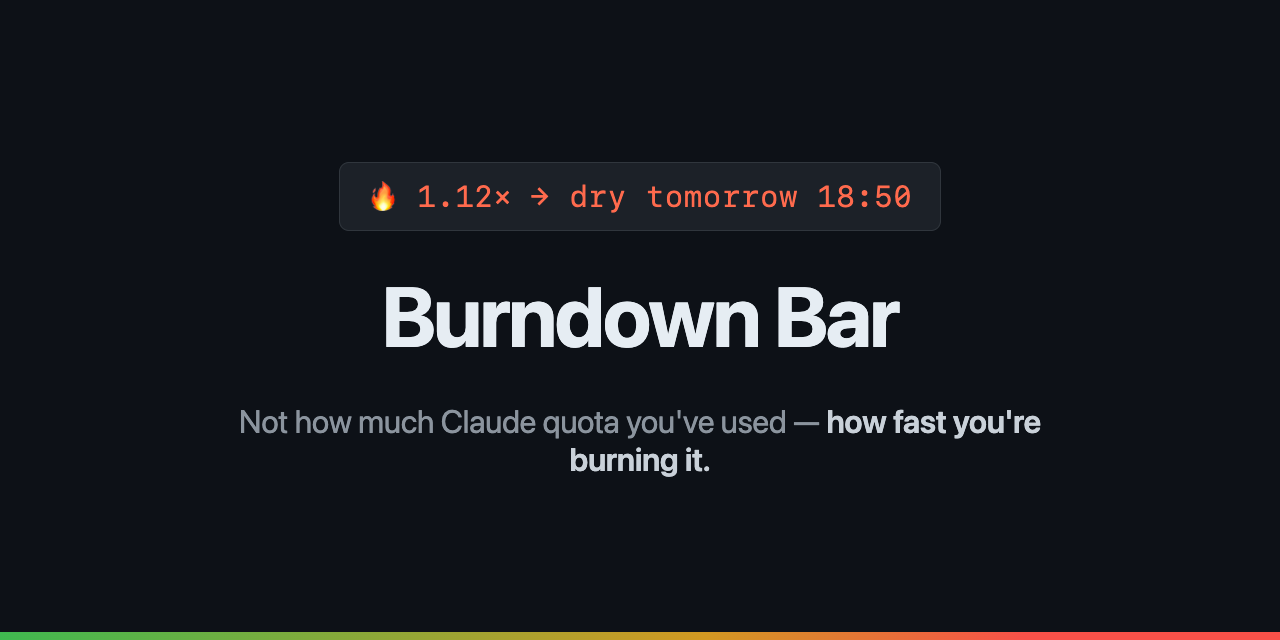
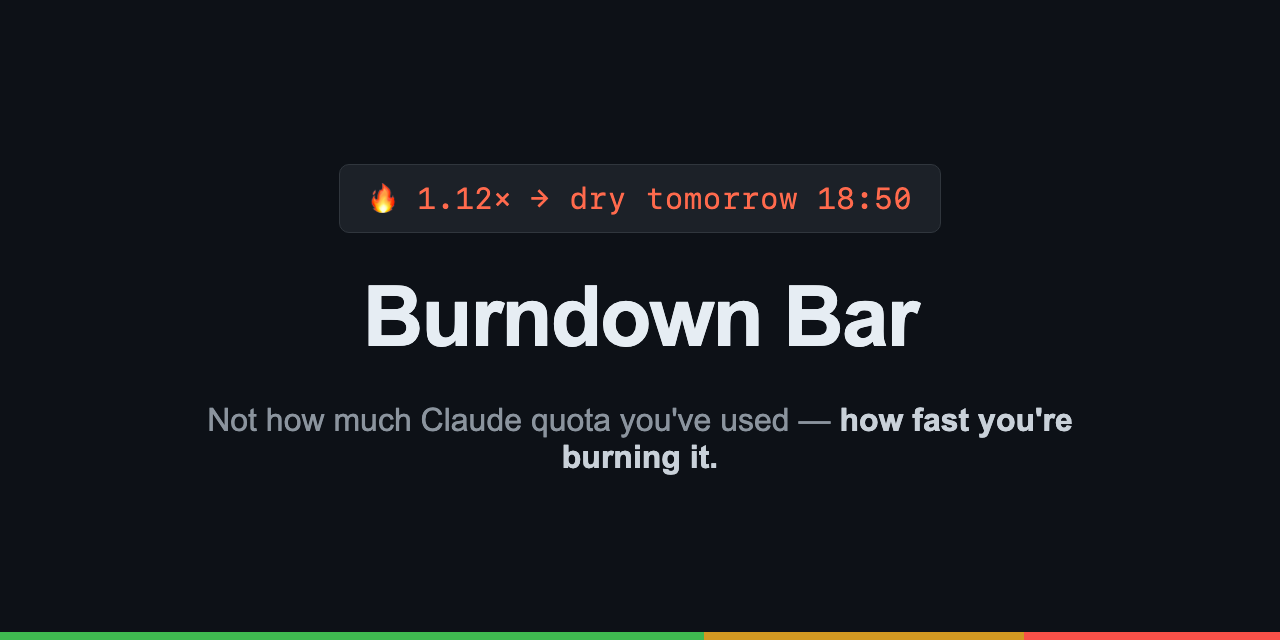
Strip gradient from social preview, switch to Arial
Replace the green→red gradient bar with three discrete solid burn-state
segments; use Arial for the text. Regenerate the 1280×640 PNG.

diff --git a/assets/social-preview.html b/assets/social-preview.html
@@ -7,7 +7,7 @@
   html, body { width: 1280px; height: 640px; }
   body {
     background: #0d1117;
-    font-family: -apple-system, "SF Pro Display", "Helvetica Neue", sans-serif;
+    font-family: Arial, Helvetica, sans-serif;
     display: flex; flex-direction: column;
     align-items: center; justify-content: center;
     gap: 36px;
@@ -26,16 +26,22 @@
   h1 { color: #e6edf3; font-size: 84px; font-weight: 700; letter-spacing: -2px; }
   p  { color: #8b949e; font-size: 32px; font-weight: 400; max-width: 900px; text-align: center; }
   p b { color: #c9d1d9; font-weight: 600; }
+  /* Discrete burn-state segments (sustainable / tight / over), solid colors —
+     no gradient. */
   .bar {
     position: absolute; bottom: 0; left: 0; right: 0; height: 8px;
-    background: linear-gradient(90deg, #3fb950 0%, #d29922 55%, #f85149 80%, #f85149 100%);
+    display: flex;
   }
+  .bar span { height: 100%; }
+  .bar .s-ok  { flex: 55; background: #3fb950; }
+  .bar .s-mid { flex: 25; background: #d29922; }
+  .bar .s-hot { flex: 20; background: #f85149; }
 </style>
 </head>
 <body>
   <div class="pill">🔥 <span class="hot">1.12× → dry tomorrow 18:50</span></div>
   <h1>Burndown Bar</h1>
   <p>Not how much Claude quota you've used — <b>how fast you're burning it.</b></p>
-  <div class="bar"></div>
+  <div class="bar"><span class="s-ok"></span><span class="s-mid"></span><span class="s-hot"></span></div>
 </body>
 </html>